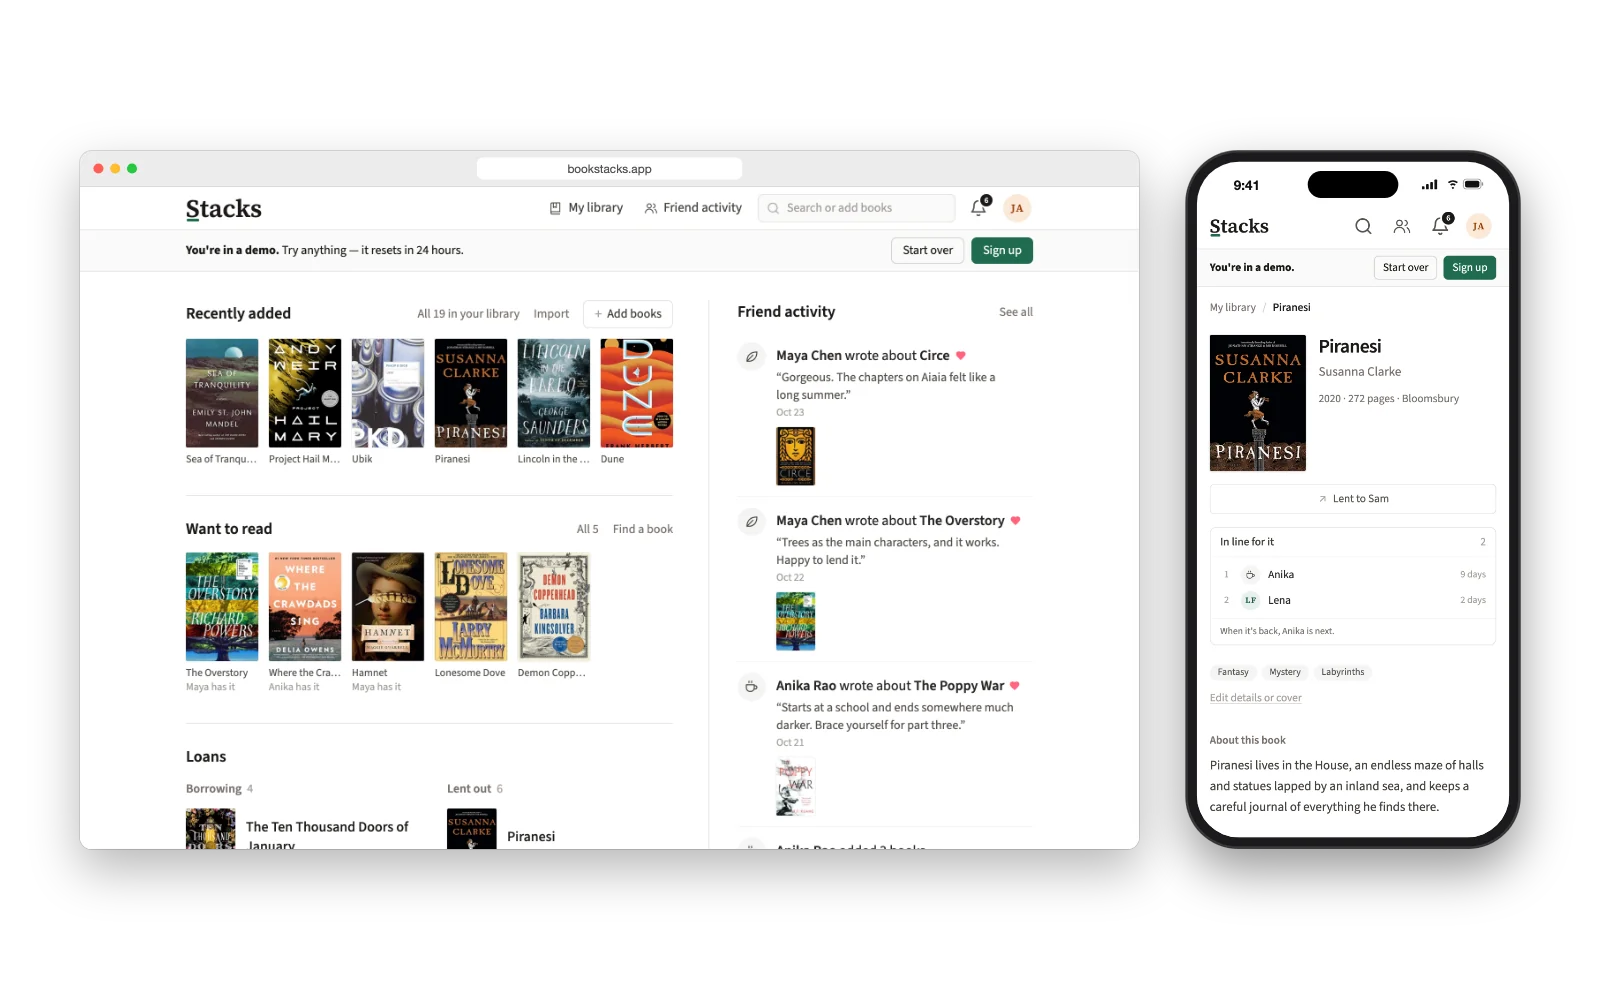
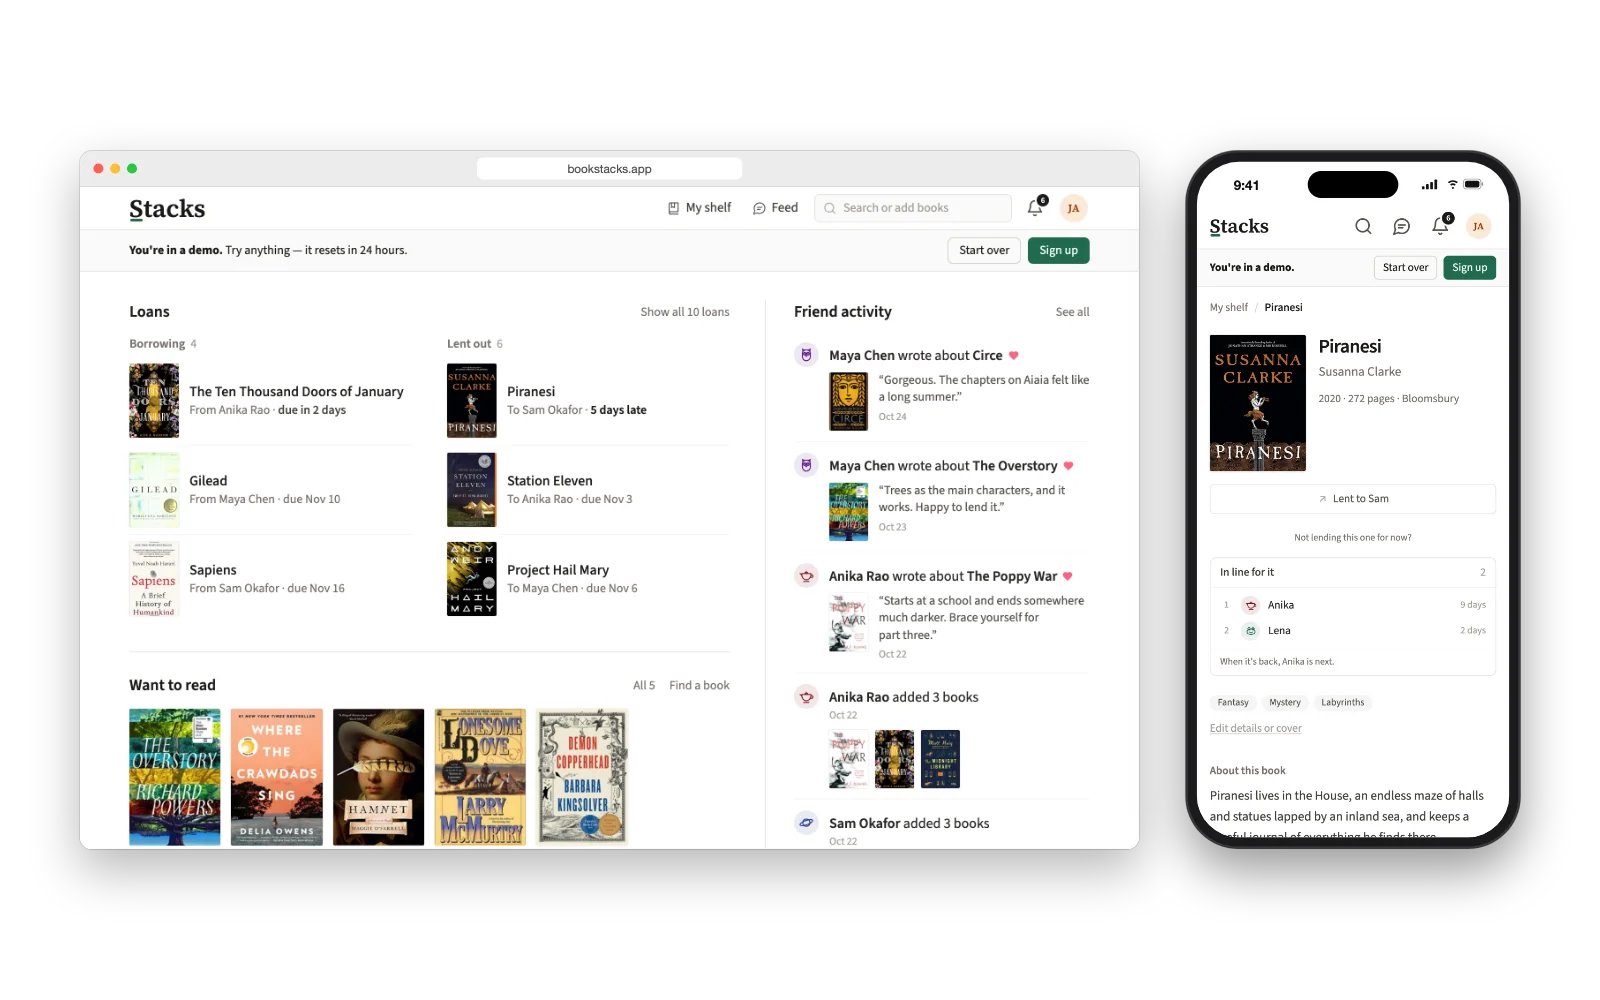
Stacks: fresh demo screenshots, with loans leading the home page
The mockup on the home and Projects pages and the case study's desktop and phone figures, recaptured in light mode. The home page now leads with loans, so the case study's description, captions and alt text follow its new order.

diff --git a/content/Stacks.md b/content/Stacks.md
@@ -25,8 +25,8 @@ Friends lend each other books all the time, and lose track of them just as often
 - **Reminders that matter.** Notifications before and after a book is due, an email for each borrow request, and a weekly email of what friends did and what's due back.
 
 <figure class="case-figure">
-<img src="/screenshots/case-studies/stacks-home.webp" width="1400" height="875" loading="lazy" decoding="async" alt="Stacks' home page: a row of recently added books, a want-to-read row noting which friend has each one, the start of the loans list, and a Friend activity column of notes about Circe, The Overstory and The Poppy War, each with a heart and the book's cover">
-<figcaption>Home: what's new on your shelf, books you want that a friend already has, your loans, and what friends are saying.</figcaption>
+<img src="/screenshots/case-studies/stacks-home.webp" width="1400" height="875" loading="lazy" decoding="async" alt="Stacks' home page: loans in two columns, four books borrowed from friends and six lent out, each with its cover, who it's from or to and when it's due, with Piranesi 5 days late, then a want-to-read row, beside a Friend activity column of notes about Circe, The Overstory and The Poppy War, each with a heart and the book's cover">
+<figcaption>Home: your loans in both directions first, then books you want that a friend already has, with what friends are saying beside them.</figcaption>
 </figure>
 
 ## Constraints I set
@@ -39,13 +39,13 @@ Friends lend each other books all the time, and lose track of them just as often
 
 **A demo you can actually use.** "Try the demo" builds a private sandbox for each visitor: a stocked library, friends with their own shelves, loans in both directions (one overdue), and requests waiting to be answered. Demo friends approve requests at once so every flow can be tried. Sandboxes never send email, never appear to real users, and are deleted after 24 hours or when the visitor starts over.
 
-**Answer the question people open it with.** The home page leads with what's new and what's due, then loans in both directions, with friends' activity beside them, so the answer to "who has my book?" is on the first screen.
+**Answer the question people open it with.** The home page leads with loans in both directions, what's due and what's late, with friends' activity beside them, so the answer to "who has my book?" is on the first screen.
 
 **Mobile as a first-class layout.** People scan barcodes and check loans on their phones, so headers, search, notifications and book pages each have their own phone layout rather than a squeezed desktop page.
 
 <figure class="case-figure case-figure-phone">
-<img src="/screenshots/case-studies/stacks-phone.webp" width="700" height="1515" loading="lazy" decoding="async" alt="Stacks on a phone: recently added books four across, a want-to-read row showing Maya or Anika has each one, and the start of Loans, with The Ten Thousand Doors of January from Anika Rao due in 2 days">
-<figcaption>On a phone, the same home page in one column, with what's due called out first.</figcaption>
+<img src="/screenshots/case-studies/stacks-phone.webp" width="700" height="1515" loading="lazy" decoding="async" alt="Stacks on a phone: the home page's loans, three books borrowed from friends, starting with The Ten Thousand Doors of January from Anika Rao due in 2 days, then books lent out, starting with Piranesi, 5 days late with Sam Okafor">
+<figcaption>On a phone, the same home page in one column, loans first, with what's due and late called out.</figcaption>
 </figure>
 
 **Lighter, not heavier.** The first version leaned on Material UI. In the rebuild I replaced it with plain Tailwind CSS, cutting the bundle so pages load faster on a phone.

diff --git a/content/Index.md b/content/Index.md
@@ -16,7 +16,7 @@ Noteworthy projects I've built on my own time, from 2021 to 2026. Most are writt
 
 <div class="projects">
 <a class="project" href="https://bookstacks.app/">
-<img class="mockup" src="/screenshots/bookshelf.webp" width="1600" height="1000" decoding="async" alt="Stacks' home page in a desktop browser window: rows of recently added books and books to read next, noting which friend has each, the start of the loans list, and a Friend activity column of notes on Circe, The Overstory and The Poppy War, beside a phone open to Piranesi by Susanna Clarke, lent to Sam, with Anika and then Lena in line for it">
+<img class="mockup" src="/screenshots/bookshelf.webp" width="1600" height="1000" decoding="async" alt="Stacks' home page in a desktop browser window: loans in two columns, books borrowed from friends and lent to them with their due dates, Piranesi 5 days late, then books to read next, beside a Friend activity column of notes on Circe, The Overstory and The Poppy War, and a phone open to Piranesi by Susanna Clarke, lent to Sam, with Anika and then Lena in line for it">
 <h3>Stacks <span class="project-year">2023–2026</span></h3>
 <p>A lending library for your own books: catalog what you own, connect with friends, and lend and borrow.</p>
 <p class="project-tech">Remix · Prisma · SQLite · Tailwind CSS · Fly.io</p>

diff --git a/content/Projects.md b/content/Projects.md
@@ -6,7 +6,7 @@ Noteworthy projects I've built on my own time, from 2021 to 2026. Most are writt
 
 <div class="projects">
 <a class="project" href="https://bookstacks.app/">
-<img class="mockup" src="/screenshots/bookshelf.webp" width="1600" height="1000" decoding="async" alt="Stacks' home page in a desktop browser window: rows of recently added books and books to read next, noting which friend has each, the start of the loans list, and a Friend activity column of notes on Circe, The Overstory and The Poppy War, beside a phone open to Piranesi by Susanna Clarke, lent to Sam, with Anika and then Lena in line for it">
+<img class="mockup" src="/screenshots/bookshelf.webp" width="1600" height="1000" decoding="async" alt="Stacks' home page in a desktop browser window: loans in two columns, books borrowed from friends and lent to them with their due dates, Piranesi 5 days late, then books to read next, beside a Friend activity column of notes on Circe, The Overstory and The Poppy War, and a phone open to Piranesi by Susanna Clarke, lent to Sam, with Anika and then Lena in line for it">
 <h2>Stacks <span class="project-year">2023–2026</span></h2>
 <p>A lending library for your own books: catalog what you own, connect with friends, and lend and borrow.</p>
 <p class="project-tech">Remix · Prisma · SQLite · Tailwind CSS · Fly.io</p>
